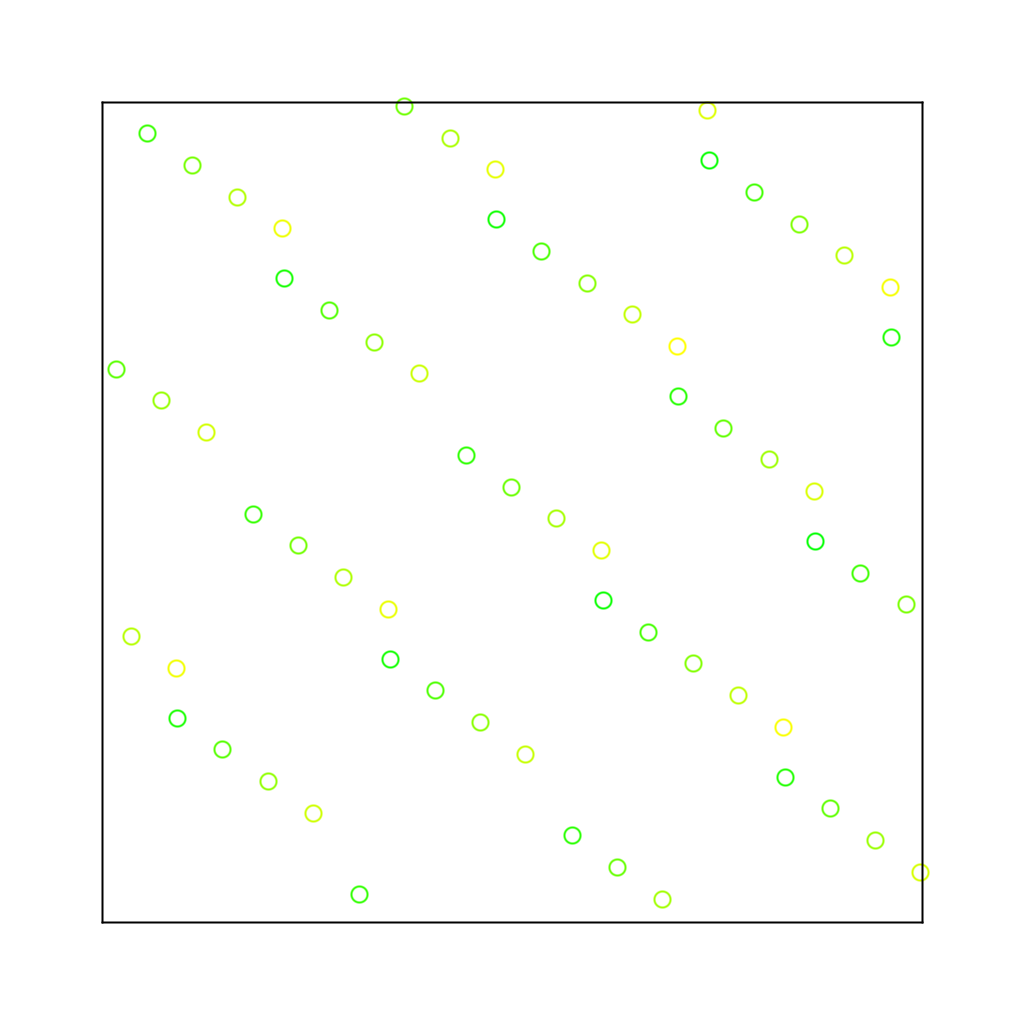
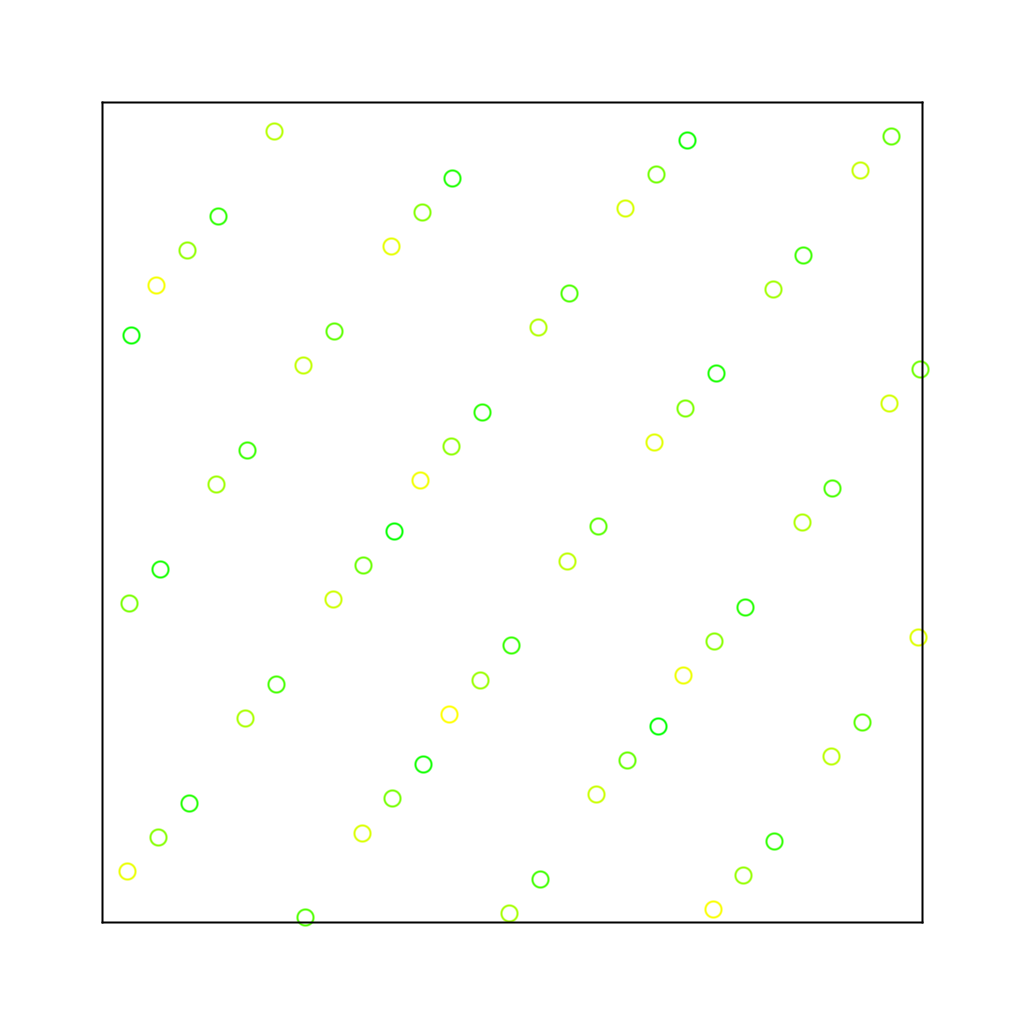
MOAR ITERATIONS

diff --git a/main.cpp b/main.cpp
@@ -511,7 +511,7 @@ std::vector<double> FindCoIrrationals(const std::vector<double>& fixed, size_t n
     // TODO: maybe keep track of best score seen?
     // TODO: could try gradient descent. could also try simulated annealing.
     // TODO: report maximum irrationality? how do yo udo that? maybe csv to graph this somehow...
-    static const size_t c_stepCount = 100000;
+    static const size_t c_stepCount = 10000000;
     static const float c_slotIndexWeightingMultiplier = 10.0f;
 
 #if SHOW_PROGRESS()
@@ -765,6 +765,7 @@ int main(int argc, char** argv)
 
 ! try an alternate algorithm: randomly pick a pair of numbers A or B. divide and make a CF. randomly cut one term in half. apply changes to A or B randomly.
 
+* the numbers really don't look great for 2d LDS... is it doing it correctly??
 
 ! make sure it can find the golden ratio from 1 static, 1 dynamic, before moving on.
 
